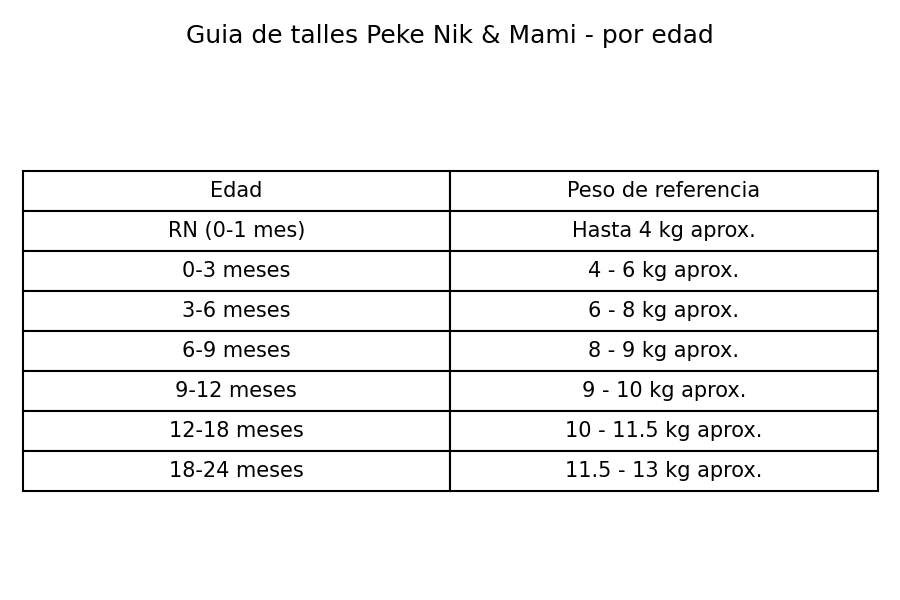
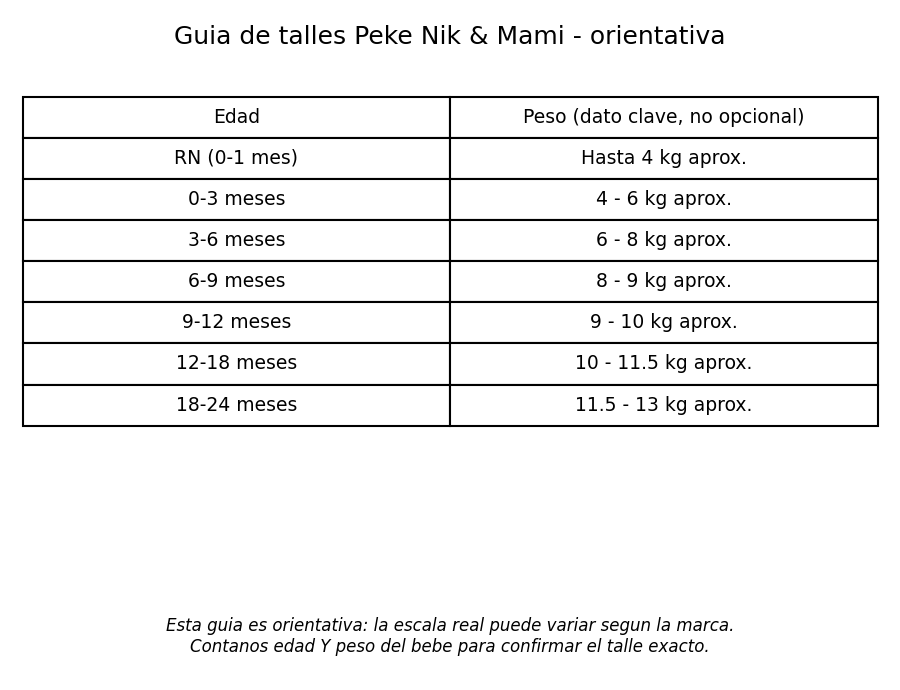
fix: v2 de la guia con peso como dato clave y aviso de variacion por marca
Responde al feedback de Vane: se agrega el peso a la par de la edad
(no como dato secundario), se suma una nota visible de que la escala
puede variar segun la marca, y se actualiza el mensaje rapido de
WhatsApp para pedir edad y peso siempre antes de confirmar talle.

Changed region(s): [[0.0311, 0.12, 0.9956, 0.84], [0.1867, 0.03, 0.8089, 0.09], [0.1867, 0.9, 0.8089, 0.96]]

diff --git a/scripts/guia_talles.py b/scripts/guia_talles.py
@@ -2,9 +2,10 @@
 Genera la guia visual de talles (Propuesta 1 del CX audit de Peke Nik & Mami)
 para compartir por WhatsApp e Instagram.
 
-v1: escala de referencia general por edad, tomada de convenciones estandar
-de indumentaria infantil. Pendiente de validar con Vane si aplica igual
-a las marcas que vende (ver docs/feedback_vane.md).
+v2 (fix por feedback de Vane, ver docs/feedback_vane.md): se agrega el peso
+como columna igual de importante que la edad -no secundaria- y una nota
+explicita de que la escala varia segun la marca, para que quien reciba la
+guia sepa que igual puede haber que confirmar con Vane.
 """
 import matplotlib.pyplot as plt
 
@@ -18,16 +19,22 @@ filas = [
     ("18-24 meses", "11.5 - 13 kg aprox."),
 ]
 
-fig, ax = plt.subplots(figsize=(6, 4))
+fig, ax = plt.subplots(figsize=(6, 4.6))
 ax.axis("off")
 tabla = ax.table(
     cellText=filas,
-    colLabels=["Edad", "Peso de referencia"],
-    loc="center",
+    colLabels=["Edad", "Peso (dato clave, no opcional)"],
+    loc="upper center",
     cellLoc="center",
 )
 tabla.scale(1, 1.5)
-ax.set_title("Guia de talles Peke Nik & Mami - por edad", pad=20)
+ax.set_title("Guia de talles Peke Nik & Mami - orientativa", pad=20)
+ax.text(
+    0.5, 0.02,
+    "Esta guia es orientativa: la escala real puede variar segun la marca.\n"
+    "Contanos edad Y peso del bebe para confirmar el talle exacto.",
+    ha="center", va="bottom", fontsize=8, style="italic", transform=ax.transAxes,
+)
 fig.tight_layout()
 fig.savefig("assets/guia_talles.png", dpi=150)
 print("Guia generada en assets/guia_talles.png")

diff --git a/docs/mensaje_whatsapp.md b/docs/mensaje_whatsapp.md
@@ -1,0 +1,13 @@
+# Mensaje rapido de WhatsApp asociado a la guia (v2)
+
+Texto sugerido para responder cuando alguien consulta por talle
+(alineado con la Propuesta 1 y 3 del CX audit):
+
+> "Para recomendarte mejor el talle te dejo esta guia orientativa. Ojo
+> que la escala puede variar segun la marca, asi que contame la edad Y
+> el peso del bebe y te confirmo el talle exacto antes de que compres."
+
+Cambio respecto de la v1: no dice "consulta la guia y contame edad y
+peso" como dato secundario. Pide edad Y peso como igual de necesarios, y
+avisa de entrada que la guia es orientativa. Esto evita que alguien
+compre guiandose solo por la guia sin confirmar con Vane.
